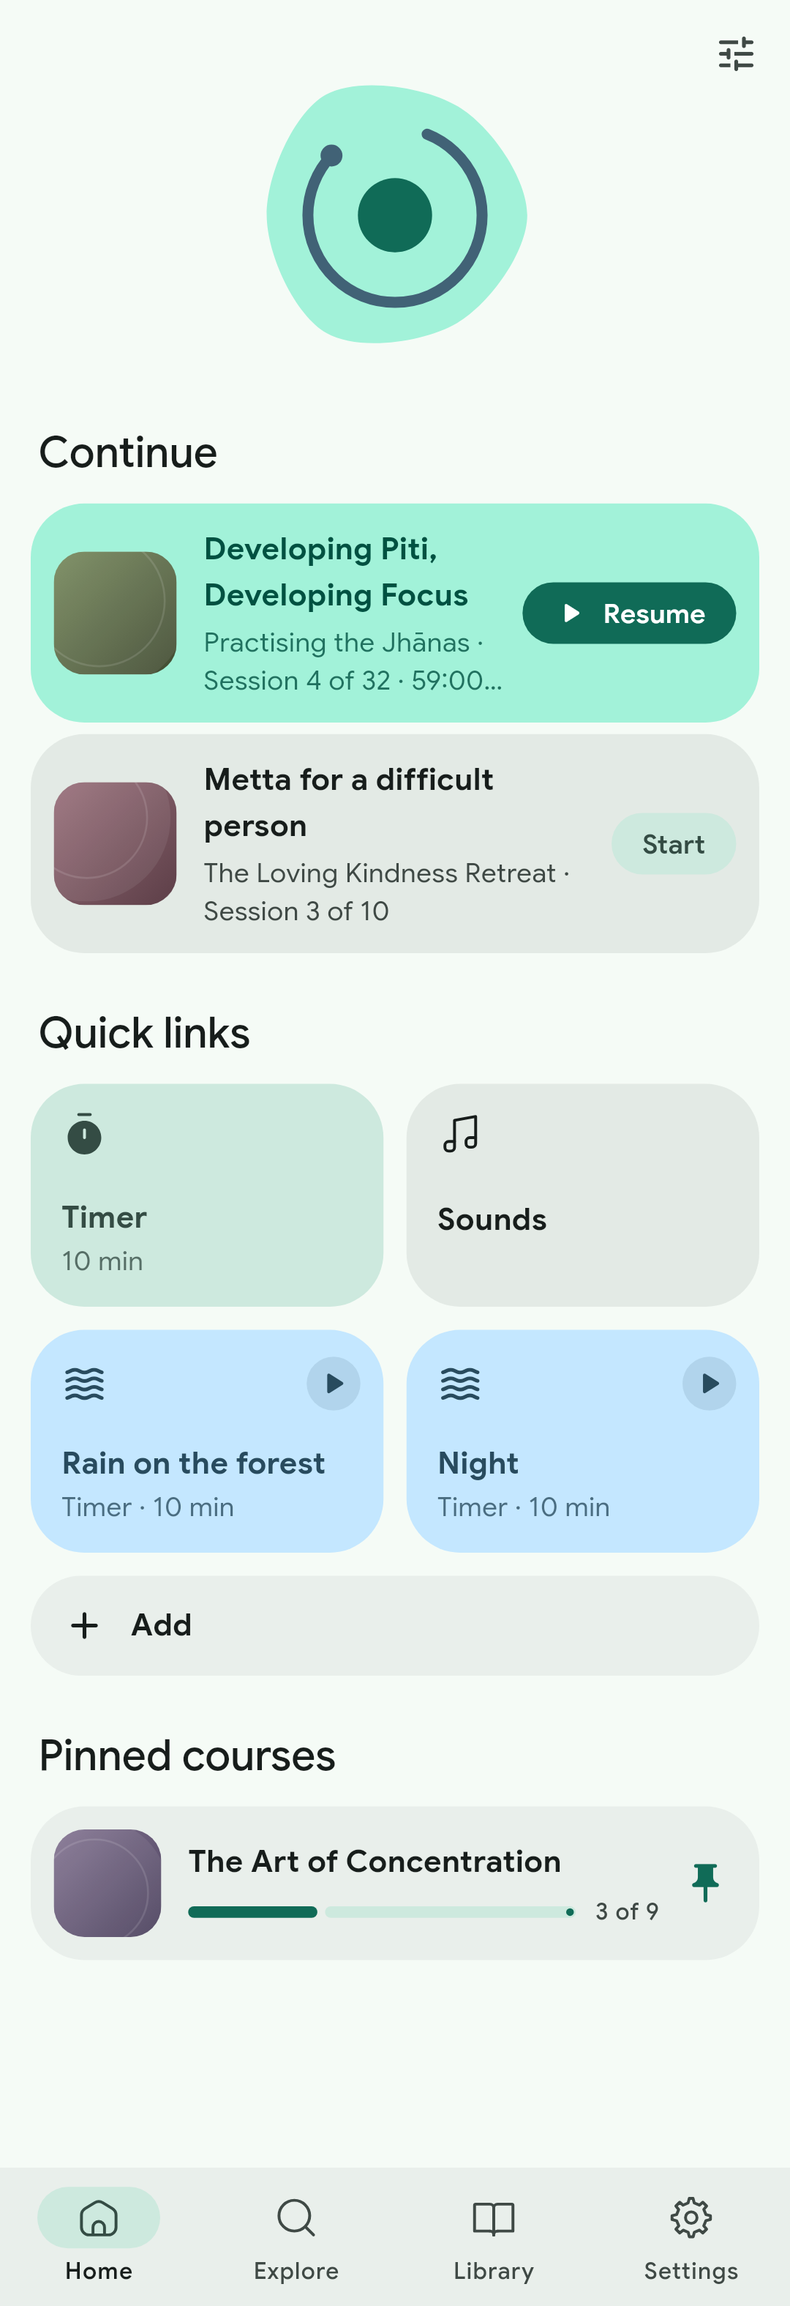
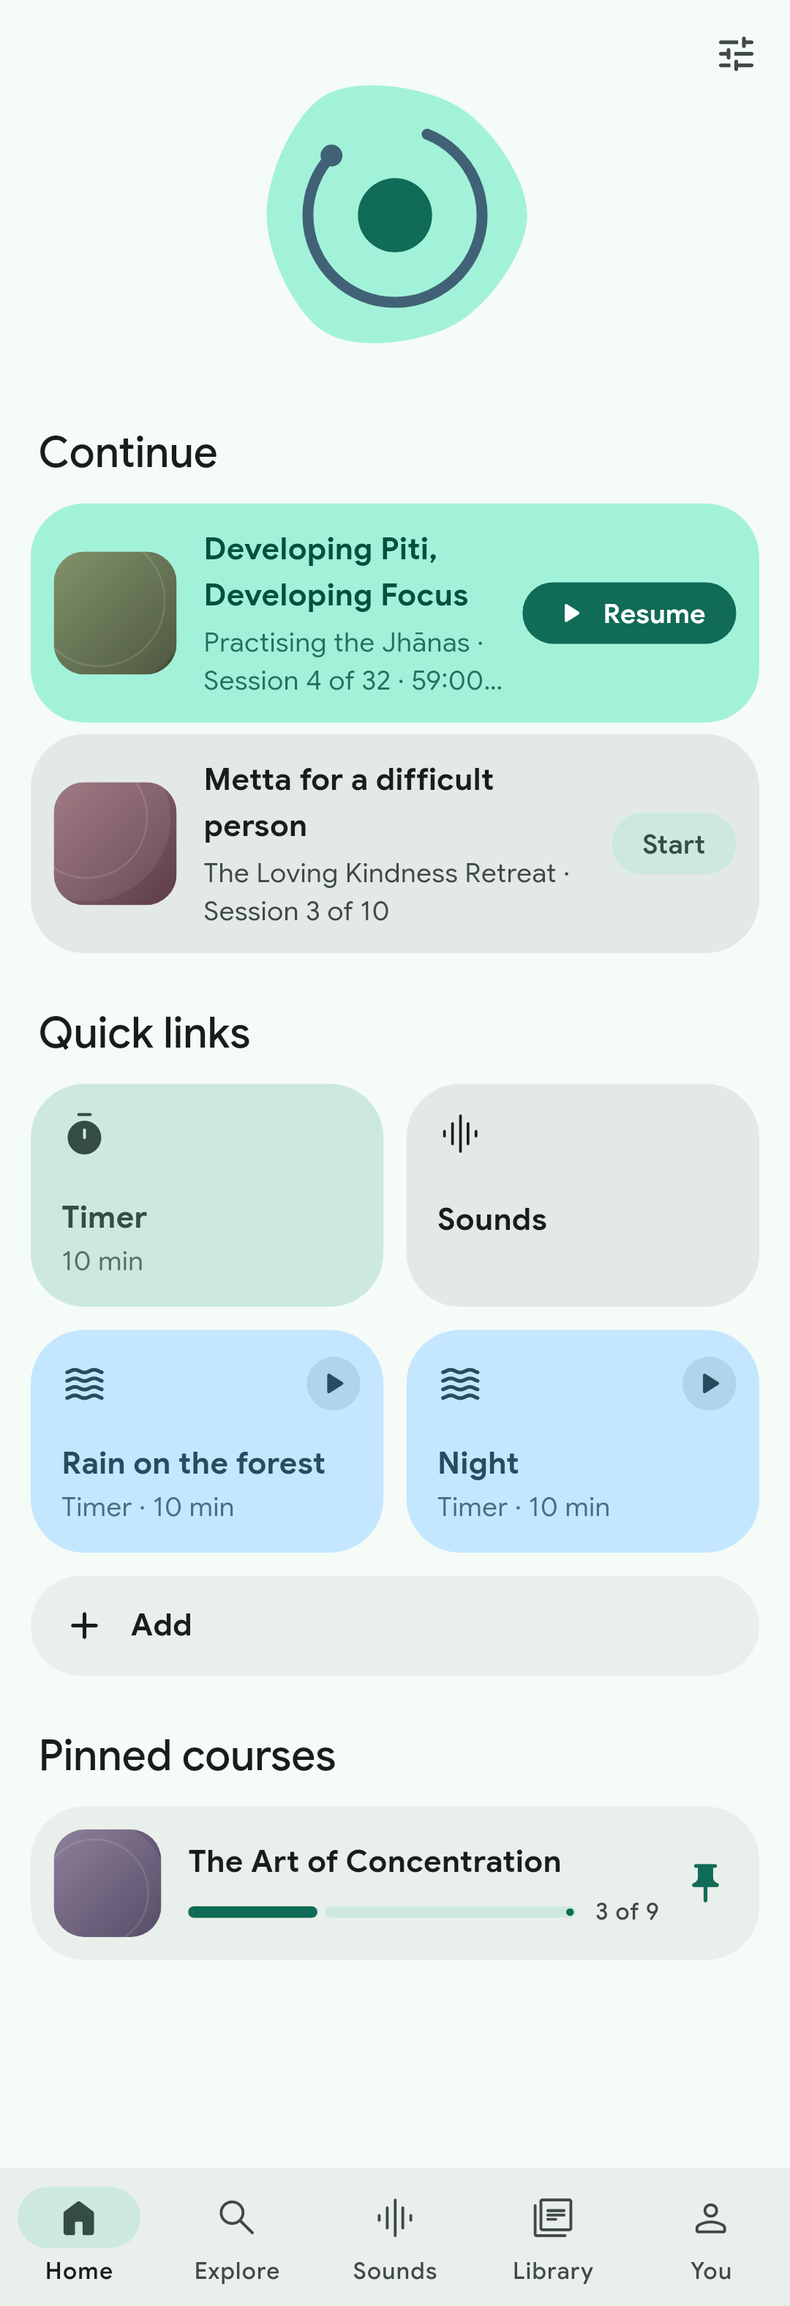
docs: five tabs and the Sounds tab; screenshots; small visual fixes
DECISIONS gets a dated section for design PR 2 and ARCHITECTURE's tabs,
sounds and theme notes follow the new seams (MainTab layout 3 and its
restore table, openSoundsPage, the Sounds screen's files and the mute
rule). Screenshots of the Sounds tab (docked, open with three layers,
empty, wide) in light and dark, and the five-tab bar at 360 dp with
Material Symbols, rendered with the existing harness.

From reviewing the renders: an empty mix stays docked (an open panel
had nothing in it), layer tiles sit on surfaceContainerLow (lowest was
near-black in dark), Drift shows its waves without a checkmark, and the
disabled play button uses Material's disabled colours.

Verified: flutter analyze clean; sounds_view (18) and main_tabs tests
pass; MEDITEJO_SCREENSHOTS=1 flutter test test/screenshots passes.

diff --git a/test/screenshots/design_screenshots_test.dart b/test/screenshots/design_screenshots_test.dart
@@ -15,15 +15,18 @@ import 'package:medito/constants/theme/app_theme.dart';
 import 'package:medito/models/pack/pack_model.dart';
 import 'package:medito/providers/home/continue_provider.dart';
 import 'package:medito/providers/pack/pack_provider.dart';
+import 'package:medito/providers/soundscape/soundscape_provider.dart';
 import 'package:medito/services/home/continue_rules.dart';
 import 'package:medito/services/library/library_models.dart';
 import 'package:medito/views/bottom_navigation/widgets/medito_nav_bar.dart';
 import 'package:medito/views/home/home_view.dart';
 import 'package:medito/views/library/library_view.dart';
+import 'package:medito/views/soundscape/sounds_view.dart';
 import 'package:medito/views/timer/timer_view.dart';
 import 'package:medito/widgets/branding/meditejo_mark.dart';
 
 import '../helpers/library_app.dart';
+import '../helpers/soundscape_fakes.dart';
 
 const _out = 'docs/fork/design';
 final _enabled = Platform.environment['MEDITEJO_SCREENSHOTS'] == '1';
@@ -46,6 +49,16 @@ Future<void> _loadFonts() async {
       ).readAsBytes().then((b) => ByteData.sublistView(b)),
     );
   await icons.load();
+  // The tab bar's and the Sounds screen's Material Symbols.
+  final symbols =
+      FontLoader(
+        'packages/material_symbols_icons/MaterialSymbolsRounded',
+      )..addFont(
+        rootBundle.load(
+          'packages/material_symbols_icons/lib/fonts/MaterialSymbolsRounded.ttf',
+        ),
+      );
+  await symbols.load();
 }
 
 final _boundary = GlobalKey();
@@ -200,6 +213,61 @@ void main() {
       expect(tester.takeException(), isNull);
       await _capture(tester, 'navbar-five-${brightness.name}');
     }, skip: !_enabled);
+
+    // The Sounds tab: the starter mix (three layers) docked under the
+    // presets and the library; the same mix open; an empty mix (which stays
+    // docked); and a wide window with the panel beside the library.
+    for (final (name, empty, open, wide) in [
+      ('sounds', false, false, false),
+      ('sounds-mix', false, true, false),
+      ('sounds-empty', true, false, false),
+      ('sounds-wide', false, false, true),
+    ]) {
+      testWidgets('$name, ${brightness.name}', (tester) async {
+        final app = await LibraryTestApp.create(tester);
+        await app.pump(
+          tester,
+          _frame(
+            brightness,
+            Scaffold(
+              body: const SoundsView(),
+              bottomNavigationBar: wide
+                  ? null
+                  : MeditoNavBar(
+                      items: nav,
+                      selectedIndex: 2,
+                      onSelected: (_) {},
+                    ),
+            ),
+          ),
+          overrides: soundscapeTestOverrides(FakeSoundscapeEngine()),
+        );
+        if (wide) {
+          // A tablet in landscape.
+          tester.view.devicePixelRatio = 2;
+          tester.view.physicalSize = const Size(2560, 1600);
+          await tester.pump();
+        } else {
+          await _phone(tester);
+        }
+        final container = ProviderScope.containerOf(
+          tester.element(find.byType(SoundsView)),
+        );
+        final mixer = container.read(soundscapeProvider.notifier);
+        if (empty) {
+          mixer.clearMix();
+        } else {
+          mixer.togglePlay();
+        }
+        await tester.pump(const Duration(seconds: 1));
+        if (open) {
+          await tester.tap(find.byKey(const ValueKey('sounds_mix_toggle')));
+          await tester.pump(const Duration(seconds: 1));
+        }
+        expect(tester.takeException(), isNull);
+        await _capture(tester, '$name-${brightness.name}');
+      }, skip: !_enabled);
+    }
 
     for (final (name, page) in [
       ('timer', const TimerView()),

diff --git a/lib/views/soundscape/sound_mix_panel.dart b/lib/views/soundscape/sound_mix_panel.dart
@@ -99,6 +99,8 @@ class SoundsMixHeader extends ConsumerWidget {
             minimumSize: const Size.square(56),
             backgroundColor: scheme.primary,
             foregroundColor: scheme.onPrimary,
+            disabledBackgroundColor: scheme.onSurface.withValues(alpha: 0.12),
+            disabledForegroundColor: scheme.onSurface.withValues(alpha: 0.38),
           ),
           tooltip: state.playing ? l10n.soundsPause : l10n.soundsPlay,
           onPressed: state.mix.isEmpty ? null : controller.togglePlay,
@@ -145,7 +147,8 @@ class SoundsMixHeader extends ConsumerWidget {
             onPressed: controller.stop,
             icon: const Icon(Symbols.stop_rounded, fill: 1),
           ),
-        if (onToggle != null)
+        // An empty mix has nothing to open: its line says how to start.
+        if (onToggle != null && (expanded || !state.mix.isEmpty))
           IconButton(
             key: const ValueKey('sounds_mix_toggle'),
             tooltip: expanded ? l10n.soundsHideMix : l10n.soundsShowMix,
@@ -413,7 +416,7 @@ class _LayerTile extends ConsumerWidget {
     return Padding(
       padding: const EdgeInsets.only(bottom: 12),
       child: Material(
-        color: scheme.surfaceContainerLowest,
+        color: scheme.surfaceContainerLow,
         shape: MeditejoShapes.rounded(MeditejoShapes.largeIncreased),
         child: Padding(
           padding: const EdgeInsets.fromLTRB(12, 12, 4, 8),
@@ -501,6 +504,8 @@ class _LayerTile extends ConsumerWidget {
                       avatar: const Icon(Symbols.waves_rounded),
                       label: Text(l10n.soundsDrift),
                       selected: layer.animate,
+                      // The waves stay; the tonal fill says it is on.
+                      showCheckmark: false,
                       onSelected: (on) => mixer.setLayerAnimate(id, on),
                     ),
                     if (isSynthId(id))

diff --git a/lib/views/soundscape/sounds_view.dart b/lib/views/soundscape/sounds_view.dart
@@ -98,7 +98,11 @@ class SoundsViewState extends ConsumerState<SoundsView>
     return true;
   }
 
-  void _toggle() => _settle(!_open);
+  void _toggle() {
+    // An empty mix stays docked: there is nothing in it to adjust.
+    if (!_open && ref.read(soundscapeProvider).mix.isEmpty) return;
+    _settle(!_open);
+  }
 
   void _settle(bool open, {double velocity = 0}) {
     if (_open != open) setState(() => _open = open);
@@ -124,10 +128,12 @@ class SoundsViewState extends ConsumerState<SoundsView>
   }
 
   void _drag(DragUpdateDetails details, double travel) {
+    if (!_open && ref.read(soundscapeProvider).mix.isEmpty) return;
     _dock.value = (_dock.value - details.primaryDelta! / travel).clamp(0, 1);
   }
 
   void _release(DragEndDetails details, double travel) {
+    if (!_open && ref.read(soundscapeProvider).mix.isEmpty) return;
     final velocity = -(details.primaryVelocity ?? 0) / travel;
     final open = velocity.abs() > 1.5 ? velocity > 0 : _dock.value > 0.5;
     _settle(open, velocity: velocity);

diff --git a/test/views/soundscape/sounds_view_test.dart b/test/views/soundscape/sounds_view_test.dart
@@ -239,6 +239,26 @@ void main() {
     expect(find.text('Nothing in your mix yet'), findsNothing);
   });
 
+  testWidgets('an empty mix stays docked and says how to start', (
+    tester,
+  ) async {
+    phone(tester);
+    await pump(tester);
+    container.read(soundscapeProvider.notifier).clearMix();
+    await tester.pumpAndSettle();
+    expect(find.text('Tap a sound or a preset to start a mix.'), findsOne);
+    expect(find.byKey(const ValueKey('sounds_mix_toggle')), findsNothing);
+    await tester.tap(find.text('Your mix'));
+    await tester.pumpAndSettle();
+    expect(find.byKey(const ValueKey('sounds_volume')), findsNothing);
+    expect(
+      tester
+          .widget<IconButton>(find.byKey(const ValueKey('sounds_play')))
+          .onPressed,
+      isNull,
+    );
+  });
+
   testWidgets('saves the mix as a preset from the panel', (tester) async {
     phone(tester);
     await pump(tester);

diff --git a/docs/fork/DECISIONS.md b/docs/fork/DECISIONS.md
@@ -528,3 +528,33 @@ Decision 16. Screenshots, the five-tab check and the mark's motion (GIF and stri
     - **Mark frame rate (taste, Burooj):** the mark draws every frame while Home is visible, up to 120 Hz on the S23+. A lower rate would cost little visually and save battery; judge it with the speed on the phone.
     - **CodeRabbit nit, tile semantics:** assert the fallback screen-reader labels of the Timer and Sounds tiles (`semanticsLabel ?? label`) with `find.bySemanticsLabel`. Trivial test hardening; not done here.
   - **Fixed in this PR from the same review:** quick-link tiles grow with the text size (a fixed 116 dp overflowed past about 1.36×), and `startTimerSession` ignores a second start while one is preparing (a double tap on a preset tile pushed two players).
+
+## 2026-10-26 (design pass PR 2: five tabs, and Sounds as a first-party tab)
+
+BRIEF decisions 16 and 18. Screenshots are in `docs/fork/design/` (`sounds-*`, `navbar-five-*`); regenerate them with `MEDITEJO_SCREENSHOTS=1 flutter test test/screenshots`.
+
+- **Five tabs: Home · Explore · Sounds · Library · You.** `MainTab` gains `sounds` and `you` (Settings becomes You) as tab layout 3.
+  - **Restore:** a saved index maps through the bar that wrote it. Layout 2's Home, Explore and Library keep their tab; its Settings (now You) opens Home. The first bar's rules are unchanged. You is never restored or saved. An unknown layout (a newer build's, after a downgrade) opens Home rather than guess.
+  - **Links:** `meditejo://sounds` and `meditejo://you` select their tab. `meditejo://settings` now selects You, where Settings lives, instead of pushing a second Settings page over the tabs. Other `*settings*` links still push it.
+  - **Back:** unchanged (any tab but Home goes Home), except that on Sounds an open mix panel folds first.
+  - **Labels:** the Library tab uses the short `navLibrary` ("Library"), not the Library screen's "Your library", so five labels fit on a 360 dp phone at large text. New string: `navYou` ("You"; de "Du", es "Tú").
+- **Icons are Material Symbols** (rounded), drawn outlined and filled when their tab is selected, from `material_symbols_icons` (Apache-2.0, a new dependency). Flagged, taste: Home `home`; Explore keeps the search glass (`search`, decision of 2026-10-19); Sounds `graphic_eq`; Library `library_books`; You `person`. Home's Sounds tile now uses the same `graphic_eq`. Each is one line in `_navItem`.
+  - **Release size:** release builds tree-shake icon fonts, and the package's three fonts are 9–15 MB unshaken. The APK check is under "Verification" in the PR.
+- **The Sounds tab replaces the drawer.** `sounds_panel.dart` and `background_sound_view.dart` are gone, and nothing else needed them. `SoundsView` is:
+  - **Presets** first, as a horizontal row of large cards on generated art. A card is coloured by its first layer's shelf, with up to four layer icons, the name, a sound count and a play badge, which becomes "Playing" with an equaliser. One tap plays the preset (`applyPreset`, unchanged). The user's presets have a ⋮ menu (and long press) to delete, with the same confirmation as before. A **Save mix** card ends the row while the mix is not a preset.
+  - **The library** shelf by shelf, as a grid of cards on `GeneratedArtwork` (two columns on a phone, up to 200 dp each), generated sounds first. Each shelf has its own palette colour (`SoundLook`, from `GeneratedArtwork.palette`, which gained a `colors` override) and a Material Symbol. A selected card gets a primary outline and a check that pops in on the expressive fast spring. A full mix (the 6-layer cap) fades the rest and says why. The cards have no photographs, since the bundled sounds carry none; generated art keeps the licence story simple.
+  - **The mix is a dock at the foot**, not a panel at the top. A panel above the grid would grow with every layer added and push the card you just tapped down the screen. The docked bar holds play/pause (56 dp), "Your mix" with the preset's name or the sounds, Stop and an open button. It opens (tap, or drag and fling) on `MeditejoMotion.expressiveSpatial` into a roomy panel: the mix volume, then per layer a tile with its art, volume slider, **mute**, **remove**, **Drift**, and **Adjust** for a generated layer. Layers grow in and fold away (standard spatial spring for size, effects spring for fade) whether they were added from the grid or a preset replaced them. A scrim covers the library while the panel is open, and tapping it folds the panel.
+  - **Empty mix:** the dock stays folded and its line says how to start ("Tap a sound or a preset to start a mix."), because an open panel with nothing to adjust was mostly blank.
+  - **Wide windows** (840 dp and wider) show the panel permanently beside the library.
+  - **Under sessions** (the Practice and Talks switches) and **Sound credits** stay. Credits is one tap away, as an app-bar button and as the last row.
+- **Mute is volume 0, not a new field.** Muting calls `setLayerVolume(id, 0)` and remembers the old level in memory (`layerUnmuteVolumesProvider`). Unmuting restores it, or the default 0.6 after a restart. Moving the slider forgets it. This keeps the mixer, the stored mix and the preset format unchanged. Flagged: a preset saved while a layer is muted saves it silent.
+- **Entry points.**
+  - **Home's Sounds tile** selects the Sounds tab.
+  - **The player's sound button** pushes the same screen full height (`openSoundsPage`, a full-screen dialog with a close button), so the session stays underneath. Back folds an open mix before closing.
+  - **Customize's Background sound row** keeps its sub-sheet, which chooses what plays under this kind or course (Off, current mix, a preset or one sound). That is a different job from building the mix, and the Customize redesign is the next PR. The sub-sheet gains **"Edit your mix in Sounds"**, which opens the same full-height page. Flagged: the redesign may fold the chooser into Sounds.
+- **Unchanged:** the mixer, its service and audio focus, the 6-layer cap, Practice/Talks session defaults (both off), presets as stored, and Home's per-session preset tiles (`PlaybackRequest.soundscape`). The screen calls only the controller's existing API.
+- **Strings:** eleven new ones (`soundsMixEmptyTitle`, `soundsMixEmptyHint`, `soundsMute`, `soundsUnmute`, `soundsShowMix`, `soundsHideMix`, `soundsMixVolume`, `soundsPlayPreset`, `soundsPresetPlaying`, `soundsAdjust`, `soundsEditMix`) plus `navYou`, in en, de and es. The de and es are my translations.
+- **Bug caught while building:** the dock's spring settled a hair off zero, which left the invisible scrim taking touches and stopped the library from scrolling. The dock now lands exactly on its target, and the scrim ignores touches unless the panel is open.
+- **Follow-ups:**
+  - Customize's Background sound chooser and the scroll-wheel picker, in the Customize redesign PR.
+  - Whether the drag handle should also let the panel be dragged from its body, not only its header (today only the header drags, so the layer sliders are not contested).

diff --git a/docs/fork/ARCHITECTURE.md b/docs/fork/ARCHITECTURE.md
@@ -329,19 +329,30 @@ clipboard reader and share intake as providers, so tests need no platform.
 
 ### Screens
 
-- **Tabs** (`lib/views/bottom_navigation/`): **Home · Explore · Library ·
-  Settings**. `MainTab` and `mainTabProvider` (`lib/providers/main_tab_provider.dart`)
-  hold the selected tab, so any screen or link can move it; the main screen
-  listens, drops the keyboard, and on Explore loads its lists and runs the
-  Dharma Seed catch-up. Android back from any other tab returns Home. The
-  saved tab (`last_main_tab_index`, with `main_tab_layout` = 2 saying which bar
-  wrote it) restores Home, Explore or Library, never Settings. The first bar
-  (Home · Explore · Search · Settings) only ever saved 0 or 1, which mean the
-  same now; any other value opens Home, and the first launch rewrites the pair.
-  `meditejo://home`, `explore`, `library` and `search` (Explore with the cursor
-  in its field, via `exploreFocusRequestProvider`) select a tab and close what
-  is open above it (`tabForLink` in `lib/routes/routes.dart`). Track and pack
-  links, the Up Next widget and the share target push pages as before.
+- **Tabs** (`lib/views/bottom_navigation/`): **Home · Explore · Sounds ·
+  Library · You** (BRIEF decision 18). `MainTab` and `mainTabProvider`
+  (`lib/providers/main_tab_provider.dart`) hold the selected tab, so any screen
+  or link can move it; the main screen listens, drops the keyboard, on Explore
+  loads its lists and runs the Dharma Seed catch-up, and on Sounds retries a
+  failed legacy background-sound fetch. Android back from any other tab
+  returns Home, except that on Sounds an open mix panel folds first
+  (`SoundsViewState.collapseMix`, through a `GlobalKey`). **`MainTab`'s order
+  is a saved format** (`last_main_tab_index`, with `main_tab_layout` saying
+  which bar wrote it; now 3). `MainTab.restore` maps a saved index through
+  the bar that wrote it (`_olderLayouts`): the first bar (Home · Explore ·
+  Search · Settings, no layout) saved only 0 or 1; layout 2 (Home · Explore ·
+  Library · Settings) keeps Home, Explore and Library, and its Settings is
+  You. You is never restored or saved (nor Settings before it); an index that
+  names nothing, or an unknown layout, opens Home; the first launch rewrites
+  the pair in layout 3's terms. Tab icons are Material Symbols
+  (`material_symbols_icons`, rounded, filled when selected); `MeditoNavItem`
+  takes an `IconData`. **You** shows `SettingsScreen` for now, in one line of
+  `_page`, so its own screen can replace it. `meditejo://home`, `explore`,
+  `sounds`, `library`, `you`, `settings` (You) and `search` (Explore with the
+  cursor in its field, via `exploreFocusRequestProvider`) select a tab and
+  close what is open above it (`tabForLink` in `lib/routes/routes.dart`).
+  Track and pack links, the Up Next widget and the share target push pages
+  as before.
 - **Explore** (`lib/views/explore/`) is find-something-to-add, with a **search
   field at the top**. Nothing typed: Practice and Talks chips and the starter
   suggestions (`searchSuggestions`), then the library's courses ("In your
@@ -437,8 +448,8 @@ and `tools/meditejo/sounds/commands.log` from `tools/meditejo/sounds/sources.jso
 Never edit the outputs by hand; change the manifest and rerun (see the script's
 docstring for the loop, loudness and encoding steps). The sounds keep their own
 licences, outside the AGPL; Settings › licences lists the mixer's native code
-(`assets/licenses/soloud-native-components.json`), and **Sound credits** (from
-the Sounds sheet) lists every recording.
+(`assets/licenses/soloud-native-components.json`), and **Sound credits** (the
+Sounds screen's app-bar button and its last row) lists every recording.
 
 **Engine.** `SoundscapeEngine` (`lib/services/soundscape/soundscape_engine.dart`)
 is implemented on **flutter_soloud 4.1.7** (pinned; see DECISIONS 2026-10-19,
@@ -466,12 +477,12 @@ preferences `soundscape_mix`, `soundscape_presets`, `soundscape_volume`,
 ### API for the player's Customize sheet
 
 The sheet's **Background sound** row should drive the mixer only through these
-(stable) members; the Sounds sheet (`showBackgroundSoundSheet`) is the place to
-build or edit a mix.
+(stable) members; the Sounds screen (`SoundsView`: the Sounds tab, or
+`openSoundsPage` over anything else) is the place to build or edit a mix.
 
 ```dart
 // What to play, as a string the cue settings can store:
-//   'mix' or ''      the current mix (as left on the Sounds sheet;
+//   'mix' or ''      the current mix (as left on the Sounds screen;
 //                    CueSettings.soundscape keeps '' for "kind default")
 //   'preset:<id>'    a preset (state.presets: starters + the user's)
 //   'sound:<id>'     one library sound
@@ -517,7 +528,25 @@ ends natively (the end screen opens without stopping the player, so the end
 bell's tail survives) ends it directly. Bells belong to the cue scheduler
 (Session cues and Customize); the legacy ambient layer follows Customize
 through `applyCueSettings`. The player's bottom row keeps the sound button,
-which opens the Sounds sheet, beside Customize.
+which opens the Sounds screen as a page (`openSoundsPage`), beside Customize.
+
+**The Sounds screen** (`lib/views/soundscape/sounds_view.dart`, BRIEF
+decisions 16 and 18) is presentation over the controller above; it adds no
+mixer state. Presets are a row of `PresetCard`s and the library a grid of
+`SoundCard`s per shelf, both on `GeneratedArtwork` (`sound_cards.dart`); a
+shelf's colour and Material Symbol come from `SoundLook`
+(`sound_labels.dart`, with the localised labels). The current mix
+(`sound_mix_panel.dart`: `SoundsMixHeader`, `SoundsMixBody`,
+`AnimatedMixLayers`) is docked at the foot, opening on
+`MeditejoMotion.expressiveSpatial`; at 840 dp or wider it is a panel beside
+the library. An empty mix stays docked. Layers enter and leave through an
+`AnimatedList` diffed against the mix, whoever changed it. **Mute** is
+`setLayerVolume(id, 0)` plus the old level in `layerUnmuteVolumesProvider`
+(in memory), so a mix or preset saved while muted keeps the layer silent.
+Entry points: Home's Sounds tile selects the tab; the player's sound button
+and Customize's Background sound sub-sheet ("Edit your mix in Sounds") push
+it full height with `openSoundsPage`, where back folds an open mix before
+closing.
 
 ## Completion, stats and favourites
 
@@ -742,5 +771,6 @@ sizes for screens not yet redesigned (`text_theme.dart`), coloured from the
 scheme. Redesigned screens use `context.typography`, `MeditejoShapes` and
 `MeditejoMotion` rather than literals. The tab bar and sidebar are Material's
 `NavigationBar` and `NavigationRail`; a tab is a `MainTab` value plus an arm
-in each of `BottomNavigationBarView`'s `_page` and `_navItem` switches.
+in each of `BottomNavigationBarView`'s `_page` and `_navItem` switches, and,
+because the order is saved, a new `MainTab.layout` with its restore rules.
 
